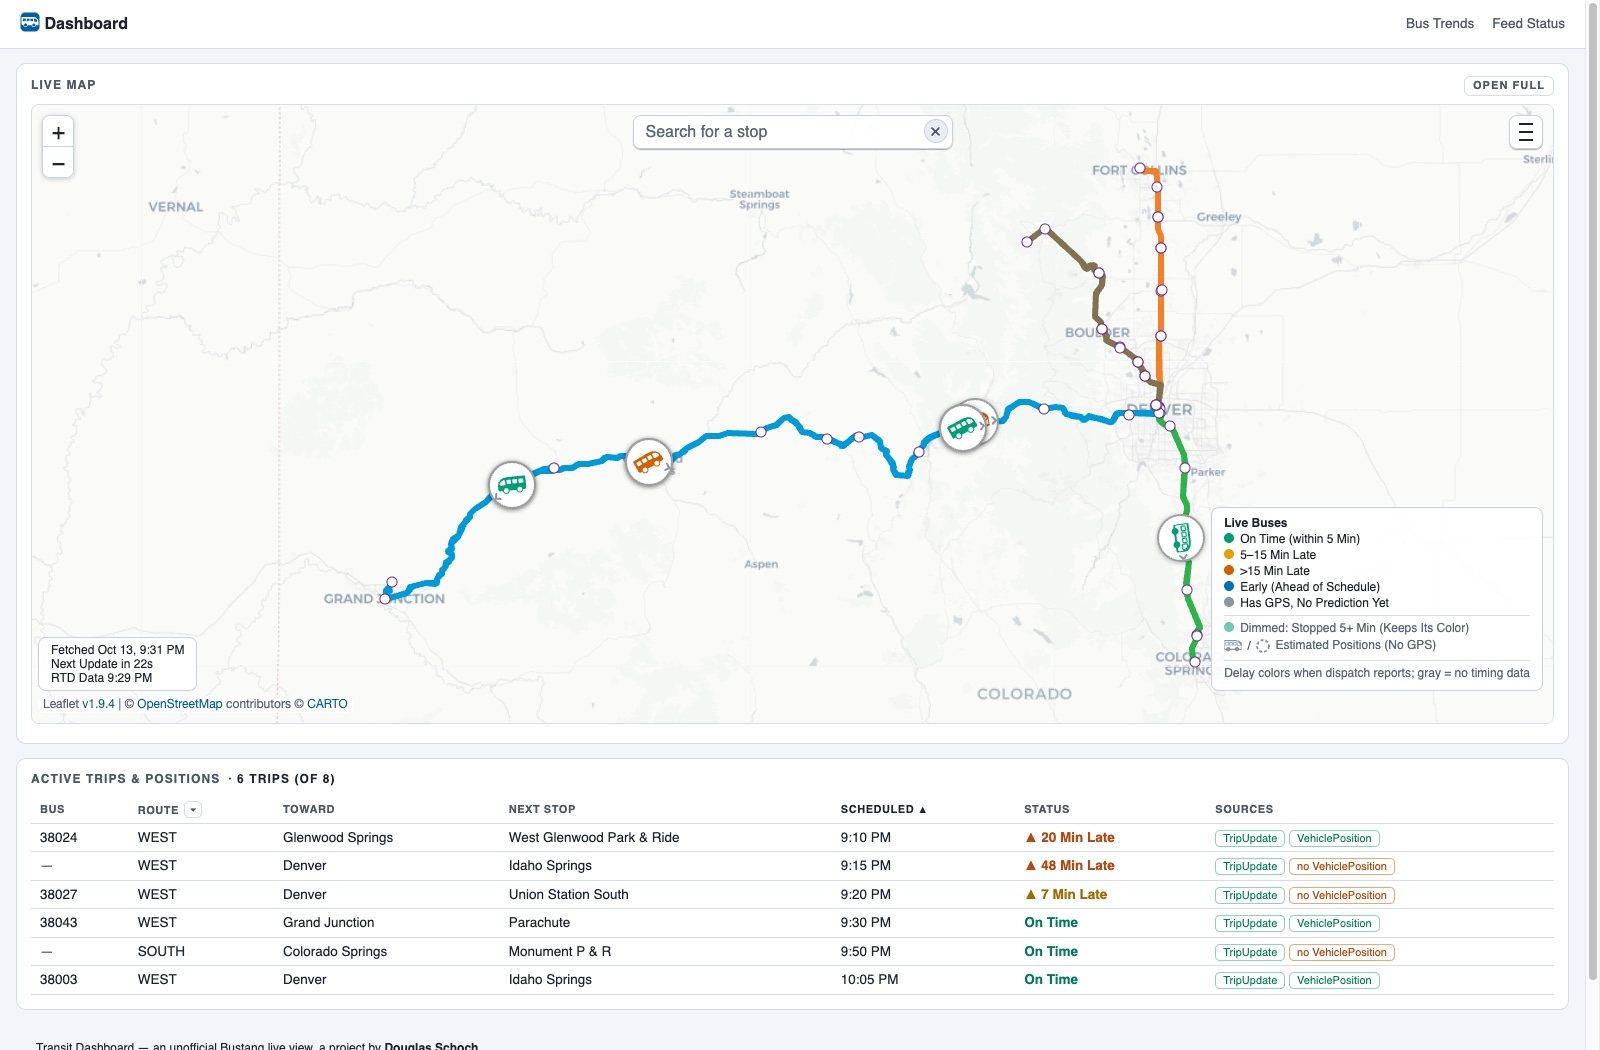
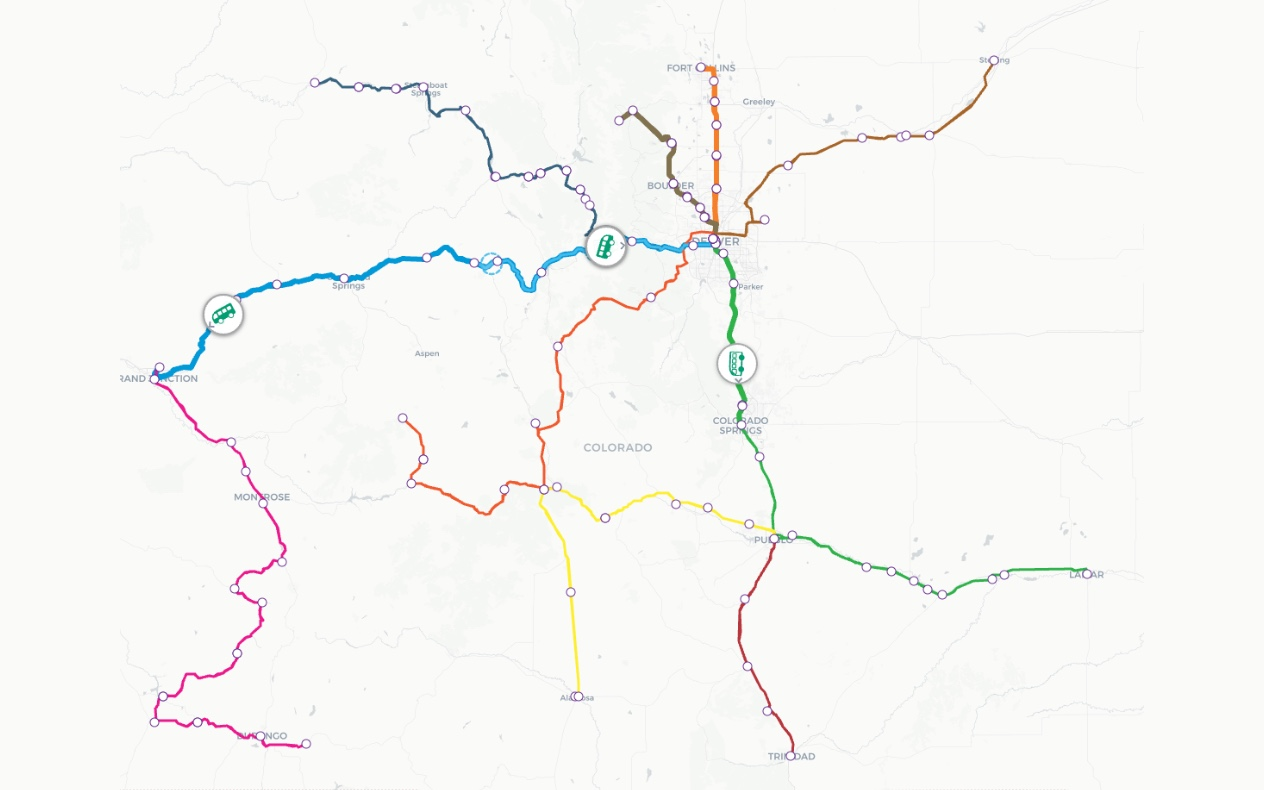
Update Libretto to Day Mode screenshot and Bustang to statewide Outrider network extent map

diff --git a/src/content/projects/bustang-transit.md b/src/content/projects/bustang-transit.md
@@ -6,8 +6,8 @@ featured: true
 order: 2
 summary: "Real-time transit dashboard and vehicle tracking map for Colorado's statewide bus network, decoding live vehicle coordinates, route performance, and stop departure times."
 techStack: "Leaflet • GTFS-Realtime • Python • OpenStreetMap"
-thumbnail: "/images/bustang_live_dashboard.png"
-heroImage: "/images/bustang_live_dashboard.png"
+thumbnail: "/images/bustang_network_map.png"
+heroImage: "/images/bustang_network_map.png"
 liveUrl: "https://transit-dashboard-ap50.onrender.com"
 githubUrl: "https://github.com/schochdo/schochdo.github.io"
 category: "real-time"

diff --git a/src/content/projects/opera-libretto-ml.md b/src/content/projects/opera-libretto-ml.md
@@ -7,8 +7,8 @@ order: 4
 category: "digital-humanities"
 summary: "Digital study companion pairing synchronized libretto translations with tokenized grammatical analysis, native text-to-speech pronunciation, and annotated repertoires."
 techStack: "React • TypeScript • NLP • Web Speech API"
-thumbnail: "/images/libretto_companion.png"
-heroImage: "/images/libretto_companion.png"
+thumbnail: "/images/libretto_companion_day.png"
+heroImage: "/images/libretto_companion_day.png"
 liveUrl: "https://libretto-eight.vercel.app/"
 githubUrl: "https://github.com/schochdo/Libretto"
 ---
